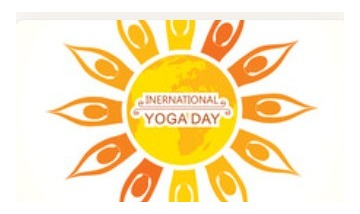
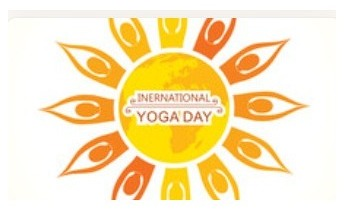
Reframe Yoga Day doctor thumbnail

Changed region(s): [[0.1163, 0.0571, 0.9012, 0.9714], [0.3198, 0.7714, 0.436, 0.9714]]

diff --git a/site/posts/jane-doctor-jubani.html b/site/posts/jane-doctor-jubani.html
@@ -371,7 +371,7 @@ nav.scrolled .nav-hamburger span{background:var(--ink,#1C1410)}
 .health-grid{display:grid;grid-template-columns:repeat(3,1fr);gap:16px}
 .health-card{display:flex;flex-direction:column;background:white;border:1px solid rgba(0,0,0,0.07);border-radius:10px;text-decoration:none;transition:all 0.25s;overflow:hidden;box-shadow:0 2px 12px rgba(0,0,0,0.06)}
 .hc-thumb{width:100%;height:180px;object-fit:cover;display:block;flex-shrink:0;transition:transform 0.4s cubic-bezier(.25,.46,.45,.94)}
-.hc-thumb.yoga-day-thumb{object-fit:contain;background:#fff;padding:10px;box-sizing:border-box}
+.hc-thumb.yoga-day-thumb{height:auto;object-fit:contain;background:#fff;padding:0;box-sizing:border-box}
 .health-card:hover .hc-thumb{transform:scale(1.05)}
 .health-card:hover .hc-thumb.yoga-day-thumb{transform:none}
 .hc-text{flex:1;padding:18px 20px 20px;border-top:3px solid #2D7D5A}
